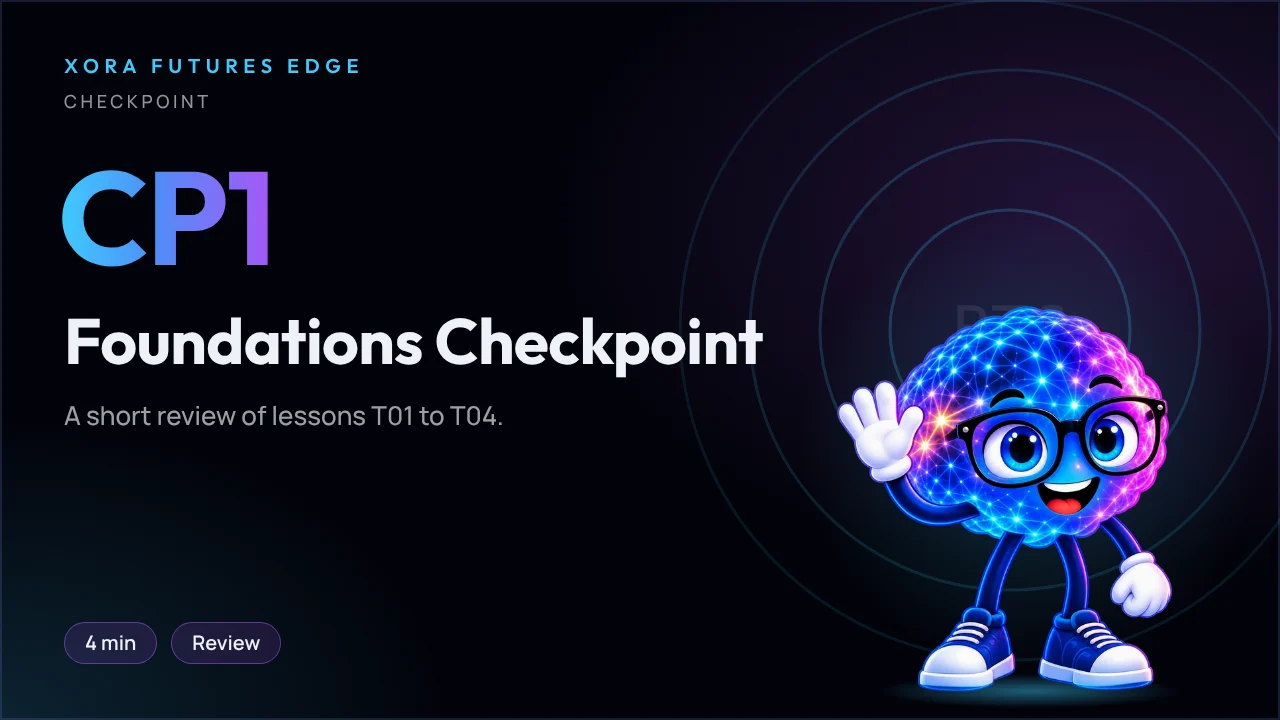
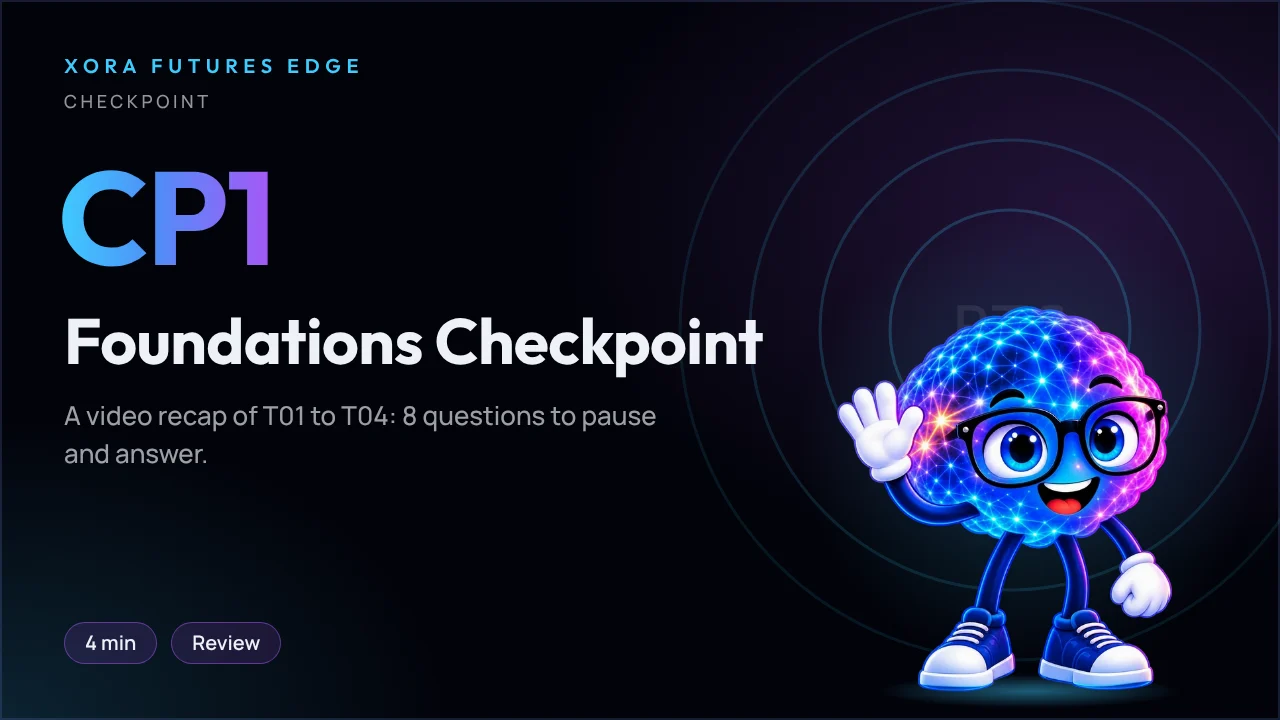
Futures Edge: label the checkpoint videos as video recaps
CP1, CPA and CPB in /course are short review videos; the graded checkpoint
quizzes live in the interactive course. Their card lines now say so.

Claude-Session: https://claude.ai/code/session_01MQA9SsAsmF4nHAtzg4hmrD

Changed region(s): [[0.0312, 0.55, 0.5, 0.6417]]

diff --git a/src/components/futures-edge/courseData.ts b/src/components/futures-edge/courseData.ts
@@ -41,7 +41,7 @@ export const LESSONS: Lesson[] = [
   { id: "T02", kind: "lesson", phase: 1, title: "Why Do Crypto Prices Move?", line: "Buyers, sellers, demand, supply and volatility.", minutes: 5, status: "available", pose: "think" },
   { id: "T03", kind: "lesson", phase: 1, title: "Trading Pairs: BTC/USDT", line: "Base and quote assets, and what a price really means.", minutes: 4, status: "available", pose: "explain" },
   { id: "T04", kind: "lesson", phase: 1, title: "What Does an Exchange Do?", line: "Order books, bid and ask, spread and account safety.", minutes: 4, status: "available", pose: "point" },
-  { id: "CP1", kind: "checkpoint", phase: 1, title: "Foundations Checkpoint", line: "A short review of lessons T01 to T04.", minutes: 4, status: "available", pose: "hi" },
+  { id: "CP1", kind: "checkpoint", phase: 1, title: "Foundations Checkpoint", line: "A video recap of T01 to T04: 8 questions to pause and answer.", minutes: 4, status: "available", pose: "hi" },
 
   { id: "T05", kind: "lesson", phase: 2, title: "Buy, Sell, Long and Short", line: "Owning an asset versus holding a position.", minutes: 5, status: "available", pose: "point" },
   { id: "T06", kind: "lesson", phase: 2, title: "Entry, Exit and Profit/Loss", line: "Work out gross and net results, with fees.", minutes: 5, status: "available", pose: "explain" },
@@ -53,7 +53,7 @@ export const LESSONS: Lesson[] = [
   { id: "T11", kind: "lesson", phase: 3, title: "Spot vs Futures", line: "Owning coins versus a contract about their price.", minutes: 5, status: "available", pose: "think" },
   { id: "T12", kind: "lesson", phase: 3, title: "Margin and Leverage", line: "Why leverage magnifies losses as well as gains.", minutes: 5, status: "available", pose: "explain" },
   { id: "T13", kind: "lesson", phase: 3, title: "Liquidation, Funding and Futures Risks", line: "What can close a position for you, and when to stay out.", minutes: 5, status: "available", pose: "think", flip: true },
-  { id: "CPA", kind: "checkpoint", phase: 3, title: "Checkpoint A", line: "Review T01 to T13, with extra focus on leverage and safety.", minutes: 4, status: "available", pose: "hi" },
+  { id: "CPA", kind: "checkpoint", phase: 3, title: "Checkpoint A", line: "A video recap of T01 to T13: 8 questions, mostly on leverage and safety.", minutes: 4, status: "available", pose: "hi" },
 
   { id: "T14", kind: "lesson", phase: 4, title: "Candlesticks: Open, High, Low, Close", line: "Read one candle, then a whole chart.", minutes: 6, status: "locked", pose: "present" },
   { id: "T15", kind: "lesson", phase: 4, title: "1m / 5m / 15m Timeframes", line: "The same market, grouped in different time windows.", minutes: 5, status: "locked", pose: "point" },
@@ -66,7 +66,7 @@ export const LESSONS: Lesson[] = [
   { id: "T21", kind: "lesson", phase: 5, title: "Confirmation, False Signals and NO_TRADE", line: "Why waiting is a decision too.", minutes: 6, status: "locked", pose: "explain" },
   { id: "T22", kind: "lesson", phase: 5, title: "Position Sizing and Risk Budget", line: "Size a position from the risk you accept.", minutes: 6, status: "locked", pose: "point" },
   { id: "T23", kind: "lesson", phase: 5, title: "Full Scalping Decision Lifecycle", line: "A complete demo walkthrough, from chart to journal.", minutes: 8, status: "locked", pose: "present" },
-  { id: "CPB", kind: "checkpoint", phase: 5, title: "Checkpoint B", line: "Review T14 to T23 with chart and risk tasks.", minutes: 4, status: "locked", pose: "hi", flip: true },
+  { id: "CPB", kind: "checkpoint", phase: 5, title: "Checkpoint B", line: "A video recap of T14 to T23: chart and risk questions to pause and answer.", minutes: 4, status: "locked", pose: "hi", flip: true },
 ];
 
 export const cardSrc = (id: string) => `/futures-edge/cards/${id}.webp`;
